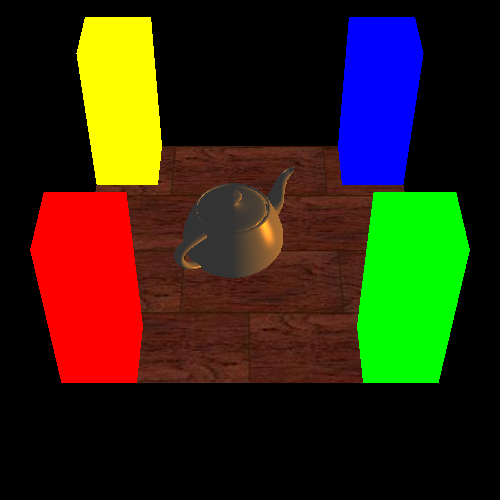
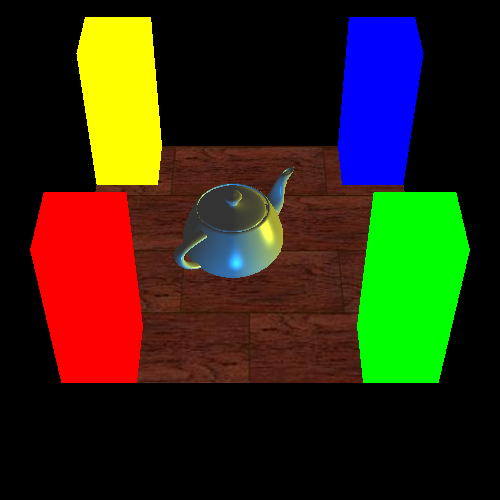
Added script to ssh. Got second screenshot

Changed region(s): [[0.33, 0.33, 0.6, 0.57]]

diff --git a/hw0/mytest3.cpp b/hw0/mytest3.cpp
@@ -119,7 +119,7 @@ void display(void)
 		const GLfloat small[] = {0.2, 0.2, 0.2, 1};
 		const GLfloat high[] = {100} ;
 		const GLfloat zero[] = {0.0, 0.0, 0.0, 1.0} ; 
-		const GLfloat light_specular[] = {1, 0.5, 0, 1};
+		const GLfloat light_specular[] = {1, 1, 0, 1};
 		const GLfloat light_specular1[] = {0, 0.5, 1, 1};
 		const GLfloat light_direction[] = {0.5, 0, 0, 0}; // Dir light 0 in w 
 		const GLfloat light_position1[] = {0, -0.5, 0, 1};
